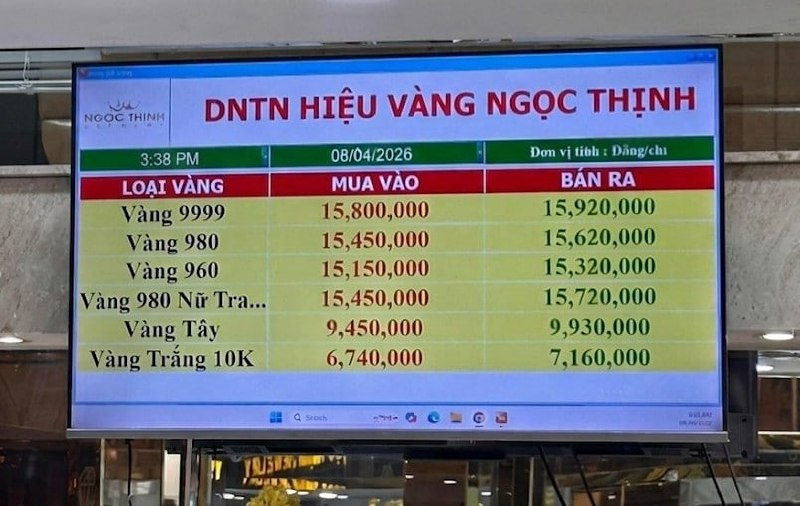
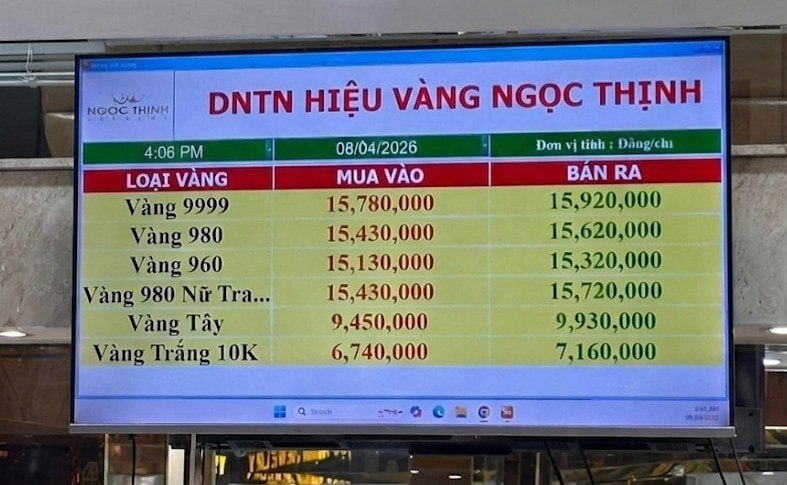
Update ngoc-thinh price image (16:36)

diff --git a/app/data/goldShops.ts b/app/data/goldShops.ts
@@ -19,7 +19,7 @@ export const GOLD_SHOPS: GoldShop[] = [
     name: "Ngọc Thịnh",
     location: "Đà Nẵng",
     image: "images/ngoc-thinh.jpg",
-    updatedAt: "15:51",
+    updatedAt: "16:36",
   },
   {
     id: "kim-khanh-viet-hung",
